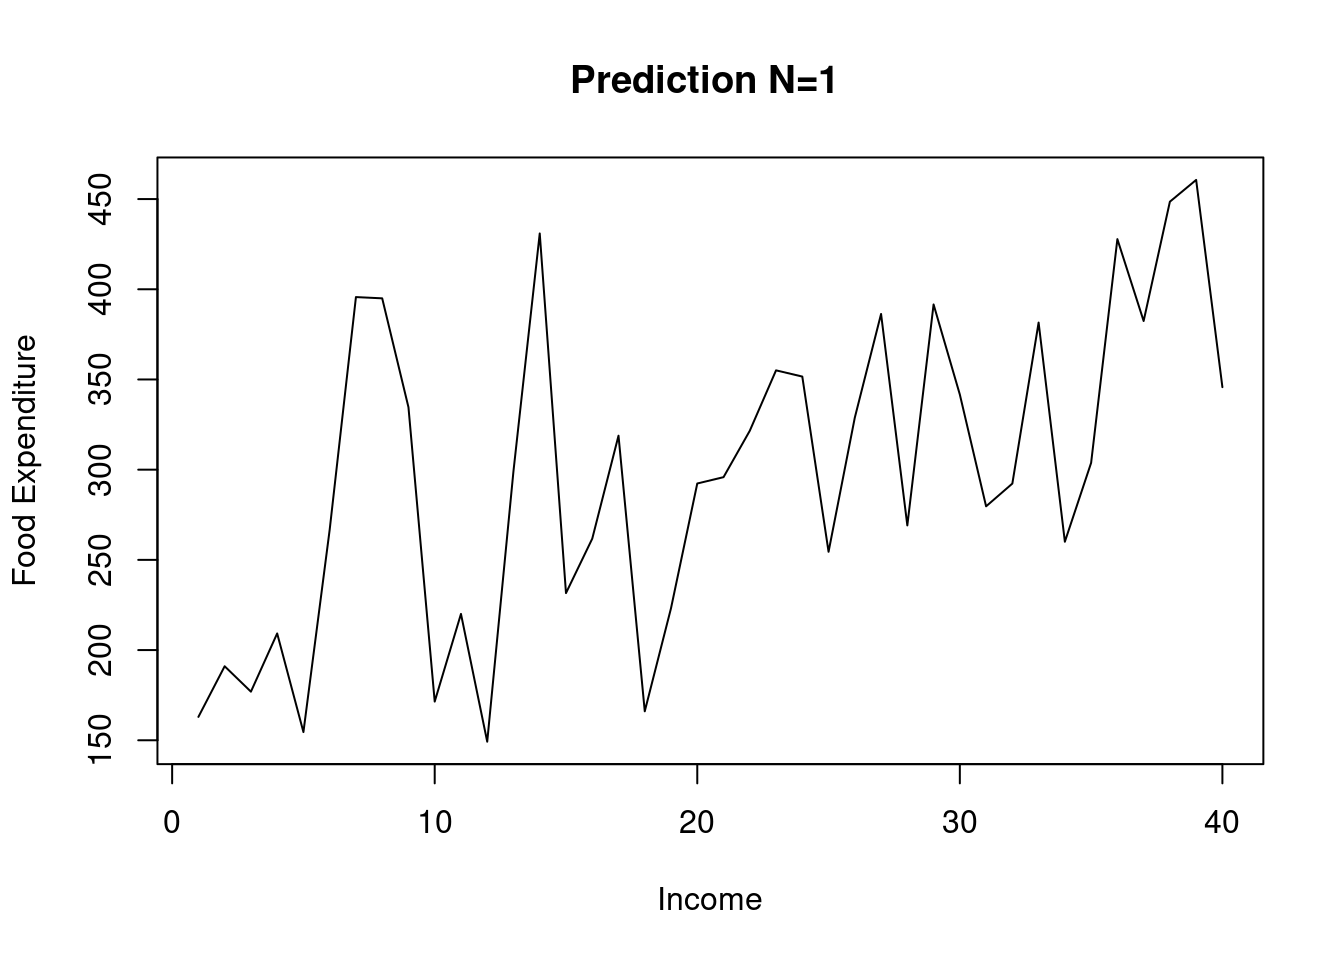
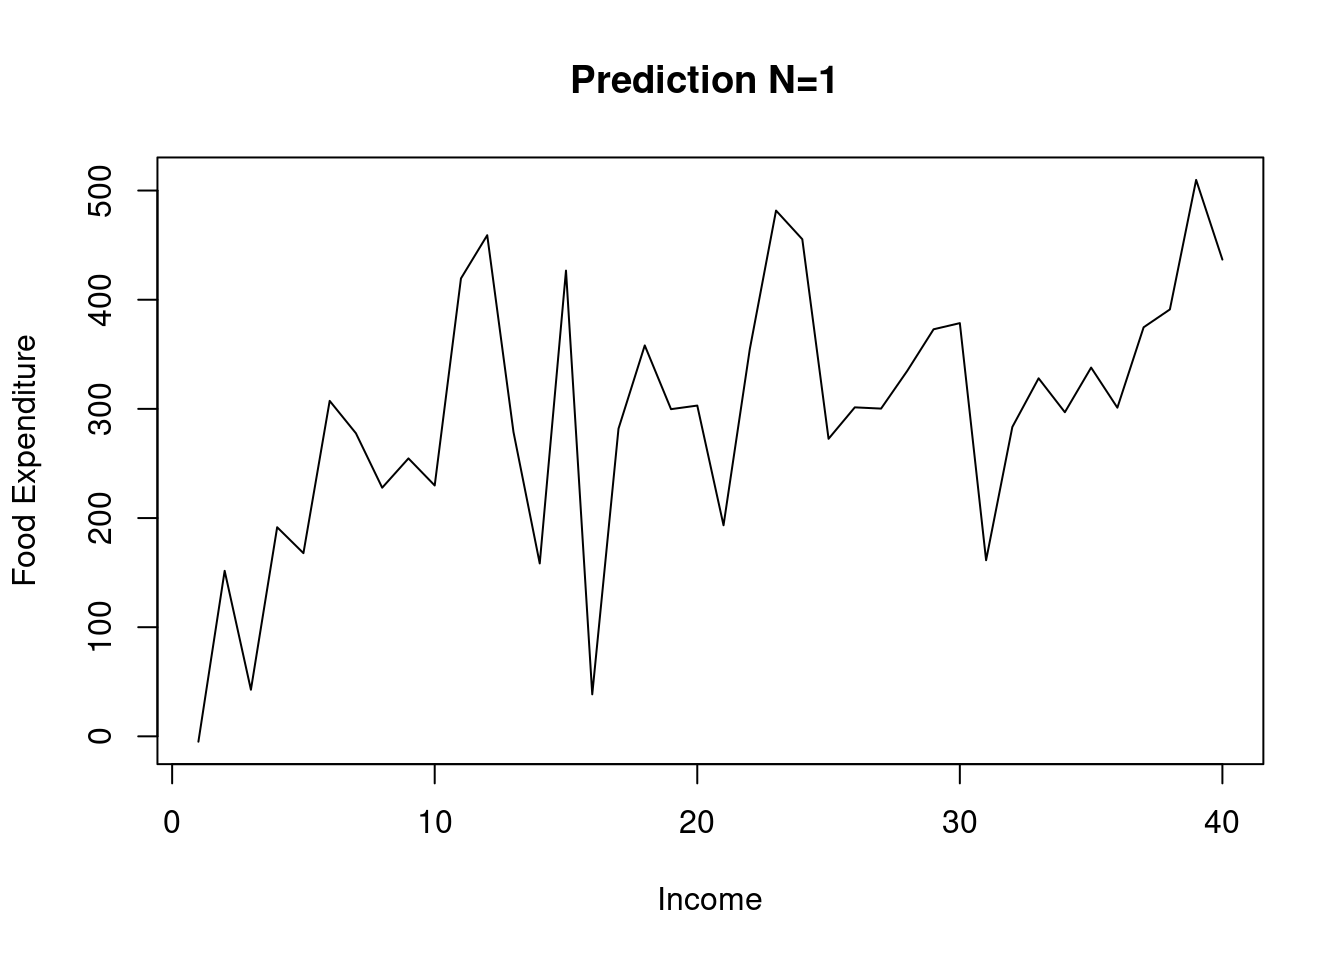
test33

diff --git a/docs/prediction.html b/docs/prediction.html
@@ -21,7 +21,7 @@
   
   
 
-<meta name="author" content="Jae-Ho Yoon" />
+<meta name="author" content="Dr. Jae-Ho Yoon" />
 
 
 <meta name="date" content="2021-07-19" />
@@ -221,11 +221,13 @@ code span.wa { color: #60a0b0; font-weight: bold; font-style: italic; } /* Warni
 <div class="sourceCode" id="cb20"><pre class="sourceCode r"><code class="sourceCode r"><span id="cb20-1"><a href="prediction.html#cb20-1" aria-hidden="true" tabindex="-1"></a><span class="co"># Least sqaures prediction (one time) </span></span>
 <span id="cb20-2"><a href="prediction.html#cb20-2" aria-hidden="true" tabindex="-1"></a></span>
 <span id="cb20-3"><a href="prediction.html#cb20-3" aria-hidden="true" tabindex="-1"></a>y1</span></code></pre></div>
-<pre><code>##  [1] 162.9722 191.0360 176.9593 209.2242 154.5628 266.7540 395.6777 394.9843
-##  [9] 334.6304 171.4583 220.0513 149.2295 299.2434 430.9475 231.5970 261.7586
-## [17] 318.8501 166.0668 223.2281 292.3495 295.8618 321.5786 355.0641 351.6161
-## [25] 254.4943 328.8661 386.3243 269.1139 391.5898 341.6538 279.6955 292.3067
-## [33] 381.5517 260.0695 303.7820 427.7983 382.4253 448.5608 460.6265 345.7585</code></pre>
+<pre><code>##  [1]  -4.883081 151.632660  42.721901 191.566755 167.833103 307.337831
+##  [7] 277.627948 227.789231 254.630076 229.824741 419.499320 459.092313
+## [13] 278.822266 158.404531 426.675075  38.499510 281.884750 358.132093
+## [19] 299.747817 303.030505 193.380462 354.633811 481.665219 455.411110
+## [25] 272.588314 301.399430 300.264000 334.927543 372.908323 378.556064
+## [31] 161.358288 283.437806 328.006270 296.933456 337.840381 301.100784
+## [37] 374.742670 391.104975 509.756569 436.770436</code></pre>
 <p>sink()</p>
 </div>
 </div>

diff --git a/docs/index.html b/docs/index.html
@@ -21,7 +21,7 @@
   
   
 
-<meta name="author" content="Jae-Ho Yoon" />
+<meta name="author" content="Dr. Jae-Ho Yoon" />
 
 
 <meta name="date" content="2021-07-19" />
@@ -174,7 +174,7 @@ code span.wa { color: #60a0b0; font-weight: bold; font-style: italic; } /* Warni
             <section class="normal" id="section-">
 <div id="header">
 <h1 class="title">Chapter 4</h1>
-<p class="author"><em>Jae-Ho Yoon</em></p>
+<p class="author"><em>Dr. Jae-Ho Yoon</em></p>
 <p class="date" style="margin-top: 1.5em;"><em>2021-07-19</em></p>
 </div>
 <div id="the-simple-linear-regression-model" class="section level1" number="1">

diff --git a/docs/model.html b/docs/model.html
@@ -21,7 +21,7 @@
   
   
 
-<meta name="author" content="Jae-Ho Yoon" />
+<meta name="author" content="Dr. Jae-Ho Yoon" />
 
 
 <meta name="date" content="2021-07-19" />

diff --git a/docs/references.html b/docs/references.html
@@ -21,7 +21,7 @@
   
   
 
-<meta name="author" content="Jae-Ho Yoon" />
+<meta name="author" content="Dr. Jae-Ho Yoon" />
 
 
 <meta name="date" content="2021-07-19" />
